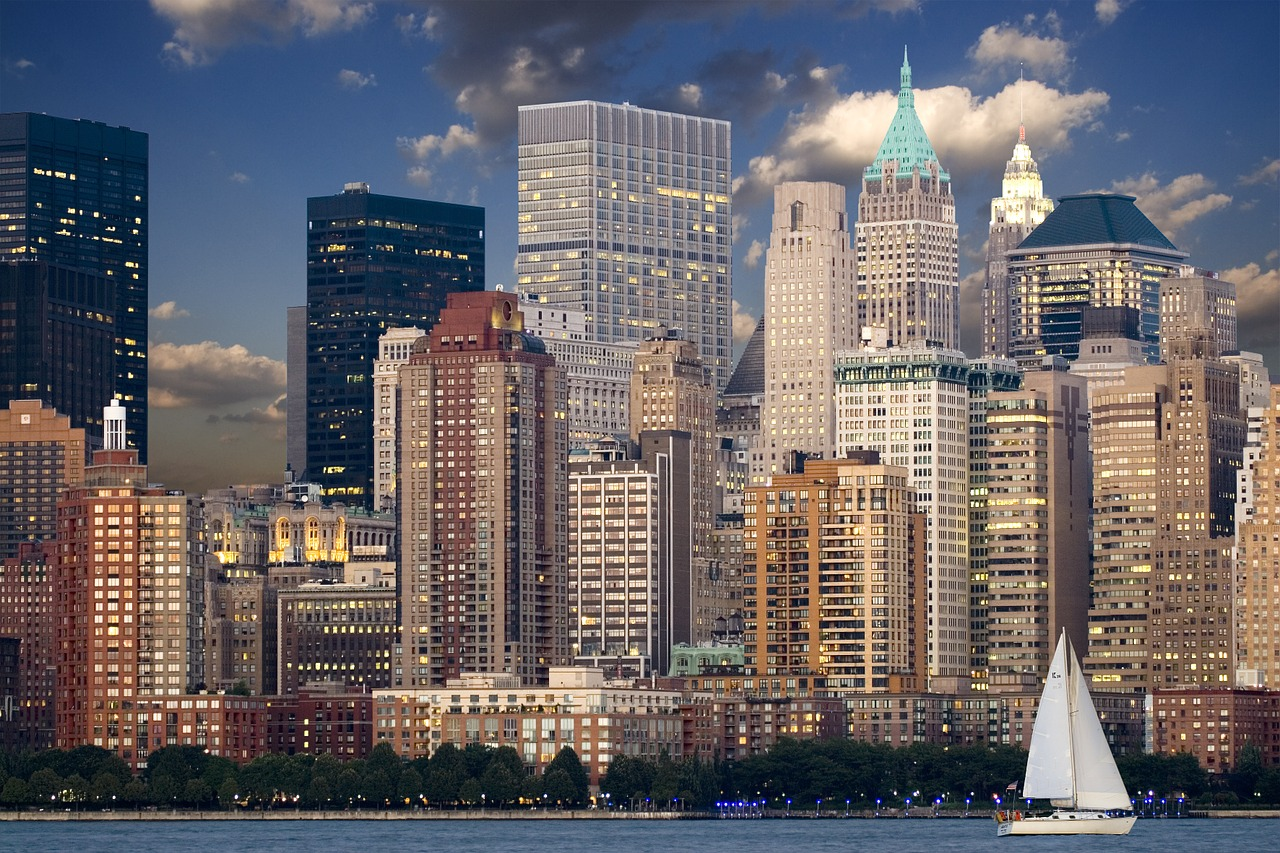
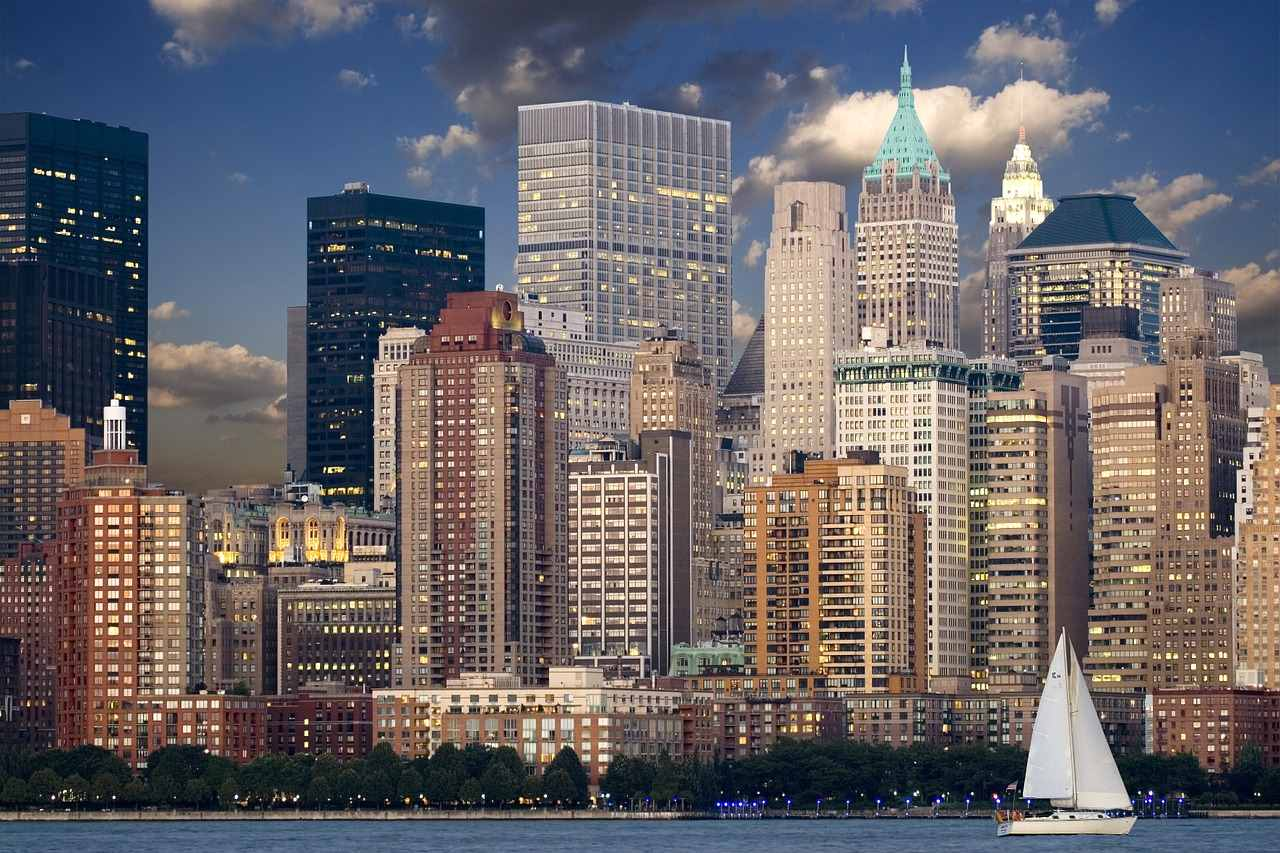
agregando seo

diff --git a/styles/style.css b/styles/style.css
@@ -72,7 +72,7 @@ main div div .carit::before {
   bottom: 0;
   right: 0;
   background: black;
-  opacity: 0.9;
+  opacity: 0.5;
 }
 main div div .carit .container div .carousel-caption {
   bottom: 180px;

diff --git a/scss/_index.scss b/scss/_index.scss
@@ -17,7 +17,7 @@ main {
           bottom: 0;
           right: 0;
           background: black;
-          opacity: 0.9;}
+          opacity: 0.5;}
 
 
 
